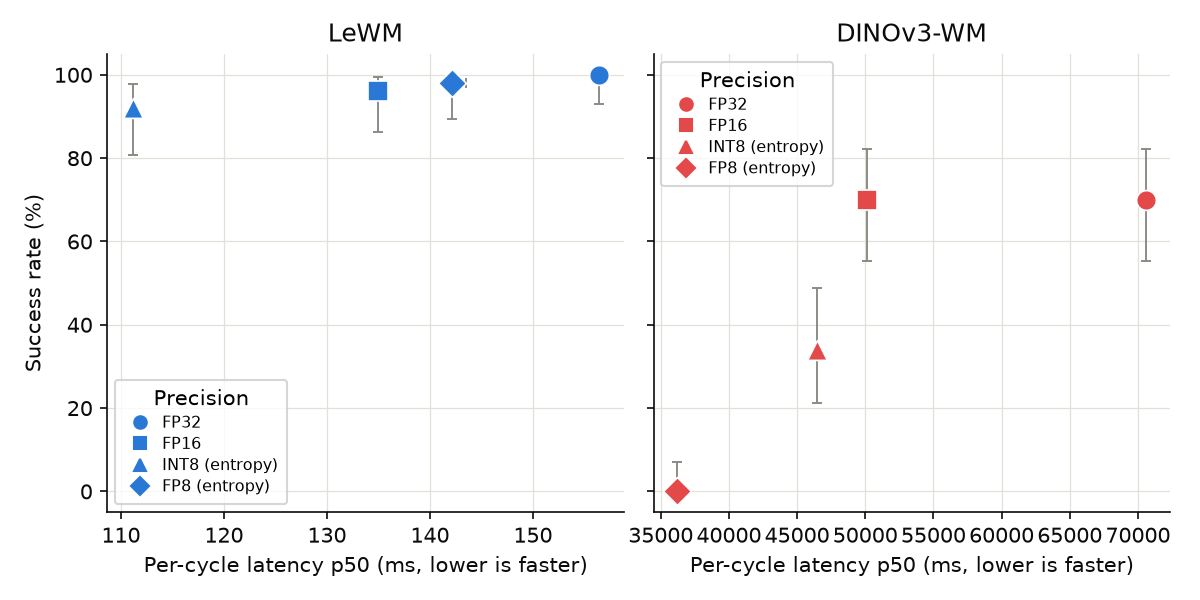
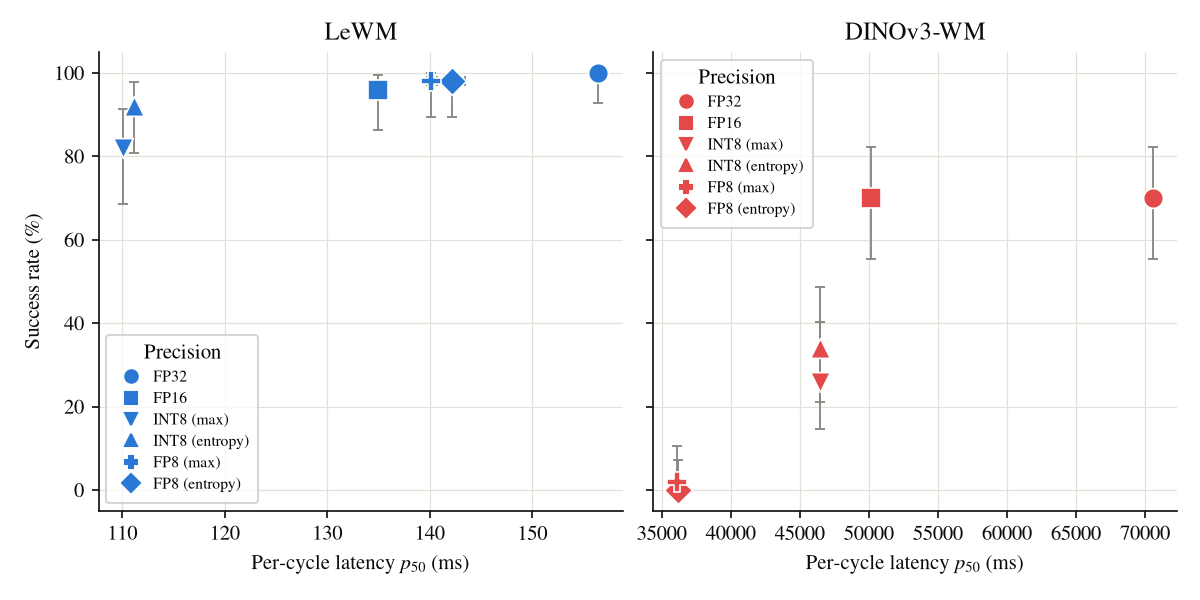
● feat(report): add both calibration methods to speed-vs-SR, set in serif
Plot INT8/FP8 once per method, shape-keyed by (precision, method); off-method
  points read from stats.json, so no number is recomputed. Set the figure in
  Nimbus Roman, render p50 as $p_{50}$, drop the "lower is faster" qualifier.
  Provision fonts-urw-base35 in setup.sh. Restate docstring magnitudes
  structurally so the plumbing carries no specific result.

diff --git a/src/report.py b/src/report.py
@@ -52,6 +52,7 @@ import re
 import sys
 from pathlib import Path
 from statistics import fmean
+from typing import NamedTuple
 
 import matplotlib
 import torch
@@ -81,8 +82,8 @@ _METHOD_INVARIANT_PRECISIONS = tuple(p for p in _PRECISIONS if p not in QUANTIZE
 # `_PRECISIONS`, so these diagnostic points reach no headline table, plot, or ratio — they are read
 # ONLY by the isolation table (architecture.md §9).
 _ISOLATION_KEY = re.compile(r"^enc-([a-z0-9]+)\+pred-([a-z0-9]+)$")
-# The component held at FP16 while the other is quantized. FP16 is lossless on these checkpoints
-# (architecture.md §7), so it is the right "undamaged" reference for an isolation run.
+# The component held at FP16 while the other is quantized — the "undamaged" reference an isolation
+# run's ΔSR is quoted against (architecture.md §7).
 _ISOLATION_HELD = "fp16"
 
 
@@ -404,7 +405,7 @@ def render_speed_table(
 def render_fp32_relative_table(bench: dict, method: str = DEFAULT_CALIBRATION_METHOD) -> str:
     """FP32-relative degradation per track × precision: per-cycle p50 speedup **and** SR delta,
     side by side — SPEC §Parity requires a precision that is faster but degrades task quality to
-    be visible, which means both numbers in one row (this is where the INT8 story reads)."""
+    be visible, which means both numbers in one row."""
     hdr = f"{'track':>6} {'prec':>5} {'cyc_p50_speedup':>16} {'ΔSR_vs_fp32':>12}"
     lines = [
         "  (vs that track's FP32; speedup = FP32 p50 ÷ this p50, >1 = faster; "
@@ -571,7 +572,7 @@ def render_isolation_table(
     provokes.
 
     Each row is one diagnostic run with ONE component quantized and the other held at FP16 (the
-    lossless reference on these checkpoints — architecture.md §7). ΔSR is quoted against that track's **FP16**
+    undamaged reference — architecture.md §7). ΔSR is quoted against that track's **FP16**
     row, not FP32, because FP16 is what the held component is running at; that makes it a different
     number from the FP32-relative table's ΔSR, deliberately.
 
@@ -660,12 +661,51 @@ _TRACK_COLOR = {"lewm": "#2a78d6", "dino": "#e34948"}  # blue / red (slots 1, 8)
 _TRACK_DISPLAY = {"lewm": "LeWM", "dino": "DINOv3-WM"}
 _PREC_DISPLAY = {"fp32": "FP32", "fp16": "FP16", "int8": "INT8", "fp8": "FP8"}
 _PRECISION_MARKER = {"fp32": "o", "fp16": "s", "int8": "^", "fp8": "D"}
+# The quantized precisions are plotted ONCE PER CALIBRATION METHOD in the same panel, so a shape per
+# precision is not enough — each (precision, method) pair needs its own. Kept in one family per
+# precision (triangles = INT8, diamond/plus = FP8) with the `entropy` shapes unchanged, so the
+# earlier single-method figures still read the same.
+_QUANTIZED_MARKER = {
+    ("int8", "max"): "v", ("int8", "entropy"): "^",
+    ("fp8", "max"): "P", ("fp8", "entropy"): "D",
+}
 _RATIO_HUE = "#81c784"  # light green — distinct from the component encoder green and the track hues
 # encoder green / predictor purple / overhead orange (validated slots 3, 7, 2)
 _COMPONENT_COLOR = {"encoder": "#1baf7a", "predictor": "#4a3aa7", "overhead": "#eb6834"}
 _GRID = "#e1e0d9"
 _MUTED = "#898781"
 _INK = "#0b0b0b"
+
+_SERIF_PREFERRED = "Nimbus Roman"  # URW Times clone; apt `fonts-urw-base35`, installed by setup.sh
+_SERIF_BUNDLED = "STIXGeneral"  # Times-metric, SHIPS WITH matplotlib — always resolvable
+
+
+def _serif_rc() -> dict:
+    """rcParams for the speed-vs-SR figure's serif typography (owner request) — the rest of the
+    figure set keeps the default sans, so this is scoped to that one render via `rc_context`.
+
+    Resolved at render time rather than fixed as a constant, because the two rc groups fall back
+    DIFFERENTLY: `font.serif` walks its list, but `mathtext.rm` takes a single font NAME with no
+    list and resolves a missing one to **DejaVu Sans**. A host without Nimbus Roman would therefore
+    set the label serif and the `$p_{50}$` in it sans — a silently inconsistent figure, logged by
+    `findfont` but raising nothing. Picking the family first and mapping mathtext to whatever won
+    keeps text and math in one face on any host: the real Nimbus where setup.sh has installed it,
+    matplotlib's bundled STIXGeneral (also Times-metric) where it has not."""
+    from matplotlib import font_manager
+
+    if _SERIF_PREFERRED in {f.name for f in font_manager.fontManager.ttflist}:
+        return {
+            "font.family": "serif",
+            "font.serif": [_SERIF_PREFERRED],
+            "mathtext.fontset": "custom",
+            "mathtext.rm": _SERIF_PREFERRED,
+            "mathtext.it": f"{_SERIF_PREFERRED}:italic",
+            "mathtext.bf": f"{_SERIF_PREFERRED}:bold",
+            # Unused by this figure, but the `custom` fontset resolves EVERY math family up front
+            # and the default `cursive` matches nothing here — a findfont log line per render.
+            "mathtext.cal": f"{_SERIF_PREFERRED}:italic",
+        }
+    return {"font.family": "serif", "font.serif": [_SERIF_BUNDLED], "mathtext.fontset": "stix"}
 
 
 def _prec_label(prec: str, method: str) -> str:
@@ -674,9 +714,17 @@ def _prec_label(prec: str, method: str) -> str:
     return f"{_PREC_DISPLAY[prec]} ({method})" if prec in QUANTIZED_PRECISIONS else _PREC_DISPLAY[prec]
 
 
+def _prec_marker(prec: str, method: str) -> str:
+    """Marker for one plotted point. Quantized precisions are shape-keyed by (precision, method) —
+    both methods share a panel — everything else by precision alone."""
+    if prec not in QUANTIZED_PRECISIONS:
+        return _PRECISION_MARKER[prec]
+    return _QUANTIZED_MARKER[(prec, method)]
+
+
 def _fmt_time_ms(ms) -> str:
-    """A duration in ms, rendered ms below 1 s and seconds above, so a 30 ms overhead and a 74 s
-    cycle both read cleanly."""
+    """A duration in ms, rendered ms below 1 s and seconds above, so a short component time and a
+    long cycle both read cleanly."""
     if _missing(ms):
         return "—"
     return f"{ms / 1000:.1f} s" if ms >= 1000 else f"{ms:.3g} ms"
@@ -705,53 +753,96 @@ def _asym_err(value, bounds):
     return [[max(0.0, value - bounds[0])], [max(0.0, bounds[1] - value)]]
 
 
+class _Point(NamedTuple):
+    """One plotted speed-vs-SR marker."""
+
+    x_ms: float
+    sr: float
+    xerr: list | None
+    yerr: list | None
+    marker: str
+    label: str
+    zorder: float
+
+
+def _speed_vs_sr_points(bench: dict, track: str, method: str, stats_payload: dict | None):
+    """One panel's plotted points, in precision order: FP32/FP16 once (method-invariant), and each
+    quantized precision ONCE PER CALIBRATION METHOD so `max` and `entropy` coexist in the panel —
+    the same both-methods-on-the-page treatment `calibration_table.txt` gives the SR (architecture.md §7).
+    Being a within-track view, it does not place a `max` point beside an `entropy` one ACROSS tracks;
+    every method appears in both panels, so the cross-track reading stays like-for-like (SPEC §Parity).
+
+    The render's own `method` is read off the joined `bench` row; the other method's quantized points
+    come from `stats.json`, whose `per_cycle_p50_ms` is built from `report.per_cycle_samples` — the
+    same warm-up-dropped, equal-n-truncated sample `_finalize_per_cycle` reduces — so the two sources
+    cannot disagree, and no result is recomputed here. Without a stats payload only the joined
+    method's points are available.
+
+    Yields `_Point`s in LEGEND order. Draw order is carried separately as `zorder`, because the two
+    methods of a quantized precision differ only in their PTQ scales and so land nearly on top of
+    each other: whichever draws second hides the other. Yield order puts `max` first to match
+    `CALIBRATION_METHODS` and the calibration table's columns, while `zorder` puts it on top, where
+    the shape it covers is the one that still shows around the edges."""
+    for prec in _PRECISIONS:
+        methods = CALIBRATION_METHODS if prec in QUANTIZED_PRECISIONS else (method,)
+        for i, m in enumerate(methods):
+            point = _stats_lookup(stats_payload, track, prec, m)
+            if m == method:
+                r = bench.get(track, {}).get(prec) or {}
+                x, y = r.get("per_cycle_p50_ms"), r.get("success_rate")
+            else:  # the off-method quantized point exists only in the stats payload
+                x, y = point.get("per_cycle_p50_ms"), point.get("success_rate")
+            if _missing(x) or _missing(y):
+                continue
+            # 95% intervals on BOTH absolute axes: x = exact binomial order-statistic on the
+            # per-cycle p50, y = Clopper-Pearson on the SR (architecture.md §12). Absent intervals
+            # simply draw no bar.
+            yield _Point(x, y, _asym_err(x, point.get("p50_ci95_ms")),
+                         _asym_err(y, point.get("sr_ci95_pct")),
+                         _prec_marker(prec, m), _prec_label(prec, m), 4 - i)
+
+
 def _render_speed_vs_sr(
     bench: dict, path: Path, method: str, title: str | None, stats_payload: dict | None = None
 ) -> Path:
     """One speed-vs-SR figure. Two panels (LeWM | DINOv3-WM) with a SHARED y-axis but SEPARATE
-    linear x-axes — the ~350× latency gap that a single linear axis would collapse is handled by
-    faceting, so no log scale is needed. Marker = precision, with NO connecting line (the
-    precisions are discrete, not a continuum). Each panel carries its OWN legend, coloured in that
-    panel's track hue; quantized precisions carry the calibration method. `title` None omits the
-    figure title (RESULTS.md); a title is passed for the README headline copy."""
+    linear x-axes — the cross-track latency gap that a single linear axis would collapse is handled
+    by faceting, so no log scale is needed. Marker = precision (and, for the quantized ones, the
+    calibration method), with NO connecting line (the points are discrete, not a continuum). Each
+    panel carries its OWN legend, coloured in that panel's track hue. `title` None omits the figure
+    title (RESULTS.md); a title is passed for the README headline copy.
+
+    Set in a serif face (`_serif_rc`) via `rc_context`, so the typography is scoped to this figure
+    and the rest of the set is untouched. Every text artist — including `tight_layout`'s metrics —
+    must be created inside the context, hence the whole body sits in the `with`."""
     from matplotlib.lines import Line2D
 
-    fig, axes = plt.subplots(1, 2, figsize=(8, 4), sharey=True)
-    legend_loc = {"lewm": "lower left", "dino": "upper left"}  # each keeps clear of its panel's points
-    for ax, track in zip(axes, _TRACKS):
-        present = []
-        for prec in _PRECISIONS:
-            r = bench.get(track, {}).get(prec)
-            if r is None or _missing(r["success_rate"]) or _missing(r["per_cycle_p50_ms"]):
-                continue
-            # 95% intervals on BOTH absolute axes, drawn UNDER the marker in a recessive grey so
-            # the precision points still read first: x = exact binomial order-statistic on the
-            # per-cycle p50, y = Clopper-Pearson on the SR (architecture.md §12). Absent intervals
-            # simply draw no bar.
-            point = _stats_lookup(stats_payload, track, prec, method)
-            xerr = _asym_err(r["per_cycle_p50_ms"], point.get("p50_ci95_ms"))
-            yerr = _asym_err(r["success_rate"], point.get("sr_ci95_pct"))
-            if xerr or yerr:
-                ax.errorbar(r["per_cycle_p50_ms"], r["success_rate"], xerr=xerr, yerr=yerr,
-                            fmt="none", ecolor=_MUTED, elinewidth=0.9, capsize=2.5,
-                            capthick=0.9, zorder=2)
-            ax.scatter(r["per_cycle_p50_ms"], r["success_rate"], marker=_PRECISION_MARKER[prec],
-                       s=90, color=_TRACK_COLOR[track], edgecolor="white", linewidth=0.8, zorder=3)
-            present.append(prec)
-        ax.set_title(_TRACK_DISPLAY[track])
-        ax.set_xlabel("Per-cycle latency p50 (ms, lower is faster)")
-        _style(ax, grid_axis="both")
-        if present:
-            handles = [Line2D([], [], marker=_PRECISION_MARKER[p], ls="", color=_TRACK_COLOR[track],
-                              label=_prec_label(p, method)) for p in present]
-            ax.legend(handles=handles, title="Precision", fontsize=7.5, loc=legend_loc[track],
-                      borderpad=0.6, labelspacing=0.35, handletextpad=0.4)
-    axes[0].set_ylabel("Success rate (%)")
-    if title:
-        fig.suptitle(title)
-    fig.tight_layout()
-    fig.savefig(path, dpi=150)
-    plt.close(fig)
+    with plt.rc_context(_serif_rc()):
+        fig, axes = plt.subplots(1, 2, figsize=(8, 4), sharey=True)
+        legend_loc = {"lewm": "lower left", "dino": "upper left"}  # each clears its panel's points
+        for ax, track in zip(axes, _TRACKS):
+            handles = []
+            hue = _TRACK_COLOR[track]
+            for p in _speed_vs_sr_points(bench, track, method, stats_payload):
+                # Error bars UNDER the markers in a recessive grey, so the points still read first.
+                if p.xerr or p.yerr:
+                    ax.errorbar(p.x_ms, p.sr, xerr=p.xerr, yerr=p.yerr, fmt="none", ecolor=_MUTED,
+                                elinewidth=0.9, capsize=2.5, capthick=0.9, zorder=2)
+                ax.scatter(p.x_ms, p.sr, marker=p.marker, s=90, color=hue,
+                           edgecolor="white", linewidth=0.8, zorder=p.zorder)
+                handles.append(Line2D([], [], marker=p.marker, ls="", color=hue, label=p.label))
+            ax.set_title(_TRACK_DISPLAY[track])
+            ax.set_xlabel("Per-cycle latency $p_{50}$ (ms)")
+            _style(ax, grid_axis="both")
+            if handles:
+                ax.legend(handles=handles, title="Precision", fontsize=7.5, loc=legend_loc[track],
+                          borderpad=0.6, labelspacing=0.35, handletextpad=0.4)
+        axes[0].set_ylabel("Success rate (%)")
+        if title:
+            fig.suptitle(title)
+        fig.tight_layout()
+        fig.savefig(path, dpi=150)
+        plt.close(fig)
     return path
 
 
@@ -763,7 +854,12 @@ def plot_speed_vs_sr(
 ) -> Path:
     """Speed vs SR, rendered twice: untitled `speed_vs_sr.png` (for RESULTS.md, which titles it in
     prose) and titled `speed_vs_sr.titled.png` (the README headline copy). Returns the untitled
-    path (the canonical RESULTS artefact)."""
+    path (the canonical RESULTS artefact).
+
+    Unlike the four single-method tables these two filenames are NOT method-scoped, and do not need
+    to be: the panels carry BOTH calibration methods' quantized points (`_speed_vs_sr_points`) and
+    FP32/FP16 are method-invariant, so re-rendering at the other `method` reproduces the same figure
+    rather than clobbering a different one (SPEC §Parity, CLAUDE §8)."""
     _render_speed_vs_sr(bench, out_dir / "speed_vs_sr.titled.png", method,
                         title="Per-cycle planning latency vs success rate",
                         stats_payload=stats_payload)
@@ -774,7 +870,7 @@ def plot_speed_vs_sr(
 def plot_per_cycle_ratio(bench: dict, out_dir: Path) -> Path:
     """DINOv3-WM ÷ LeWM per-cycle p50 latency ratio per precision. RESULTS.md only, so NO figure
     title; one series → orange bars, no legend; zero baseline KEPT (truncating a ratio axis
-    misleads); each bar value-labelled so the 310-410× spread is exact rather than muted.
+    misleads); each bar value-labelled so the spread is exact rather than muted.
 
     Measured values only, and no caveat text on the PNG (owner ruling, 2026-07-26): the bar-to-bar
     (cross-precision) spread partly reflects the differential throttle (architecture.md §11), but
@@ -802,12 +898,12 @@ def plot_per_cycle_ratio(bench: dict, out_dir: Path) -> Path:
 
 def plot_component_breakdown(bench: dict, out_dir: Path, precision: str = "fp32") -> Path:
     """Per-track encoder/predictor/overhead split at one precision, as TWO panels each NORMALISED
-    to 100% of that track's own cycle. The ~350× absolute gap otherwise collapses LeWM to a flat
-    line and hides DINO's encoder; normalising makes both compositions readable, and the absolute
-    cycle time is kept in each panel title so the gap is not erased. Runtime-WEIGHTED (step mean ×
-    CEM call counts) with overhead by subtraction. Each component is a LEADER-LINE callout (so the
-    ~0% encoder sliver is still labelled), the callouts fanning outward per panel to avoid
-    collisions; callout text is black, leader lines grey.
+    to 100% of that track's own cycle. The absolute cross-track gap otherwise collapses the faster
+    track to a flat line and hides the slower track's encoder; normalising makes both compositions
+    readable, and the absolute cycle time is kept in each panel title so the gap is not erased.
+    Runtime-WEIGHTED (step mean × CEM call counts) with overhead by subtraction. Each component is
+    a LEADER-LINE callout (so a component that renders as a sliver is still labelled), the callouts
+    fanning outward per panel to avoid collisions; callout text is black, leader lines grey.
 
     No caveat text on the PNG (owner ruling, 2026-07-26): the overhead slice's absolute ms is
     measured on unlocked clocks and an overhead share below the run-to-run clock mismatch is
@@ -918,7 +1014,7 @@ def per_cycle_samples(raw_by_track: dict, warmup_drop: int = PER_CYCLE_WARMUP_DR
     iterates.
 
     A vector too short to survive the warm-up drop is left OUT rather than reduced to nothing (only
-    reachable with synthetic/degenerate data — real n is 50-100)."""
+    reachable with synthetic/degenerate data — a recorded vector is far longer)."""
     lat_by_track = {t: v[warmup_drop:] for t, v in raw_by_track.items() if len(v) > warmup_drop}
     if not lat_by_track:
         return {}
@@ -957,8 +1053,8 @@ def _finalize_per_cycle(bench: dict, warmup_drop: int = PER_CYCLE_WARMUP_DROP) -
     The dropped values are STASHED (`_per_cycle_dropped_ms`) rather than discarded, so the speed
     table can disclose how anomalous the excluded decision actually was (`drop×`) — the exclusion is
     reported, not hidden. The truncated `n` is stashed too (`_per_cycle_n`): the whole statistic
-    ruling rests on n being 50-100 and SR-dependent, so a reader must be able to verify the equal-n
-    truncation off the artefact. Truncation takes the common MINIMUM, so the highest-SR track sets n
+    ruling rests on n being small and SR-dependent (SPEC §Interface Contracts), so a reader must be
+    able to verify the equal-n truncation off the artefact. Truncation takes the common MINIMUM, so the highest-SR track sets n
     for every row at that precision — one more reason p95 carries no claim."""
     for prec in _PRECISIONS:
         raw_by_track = {
